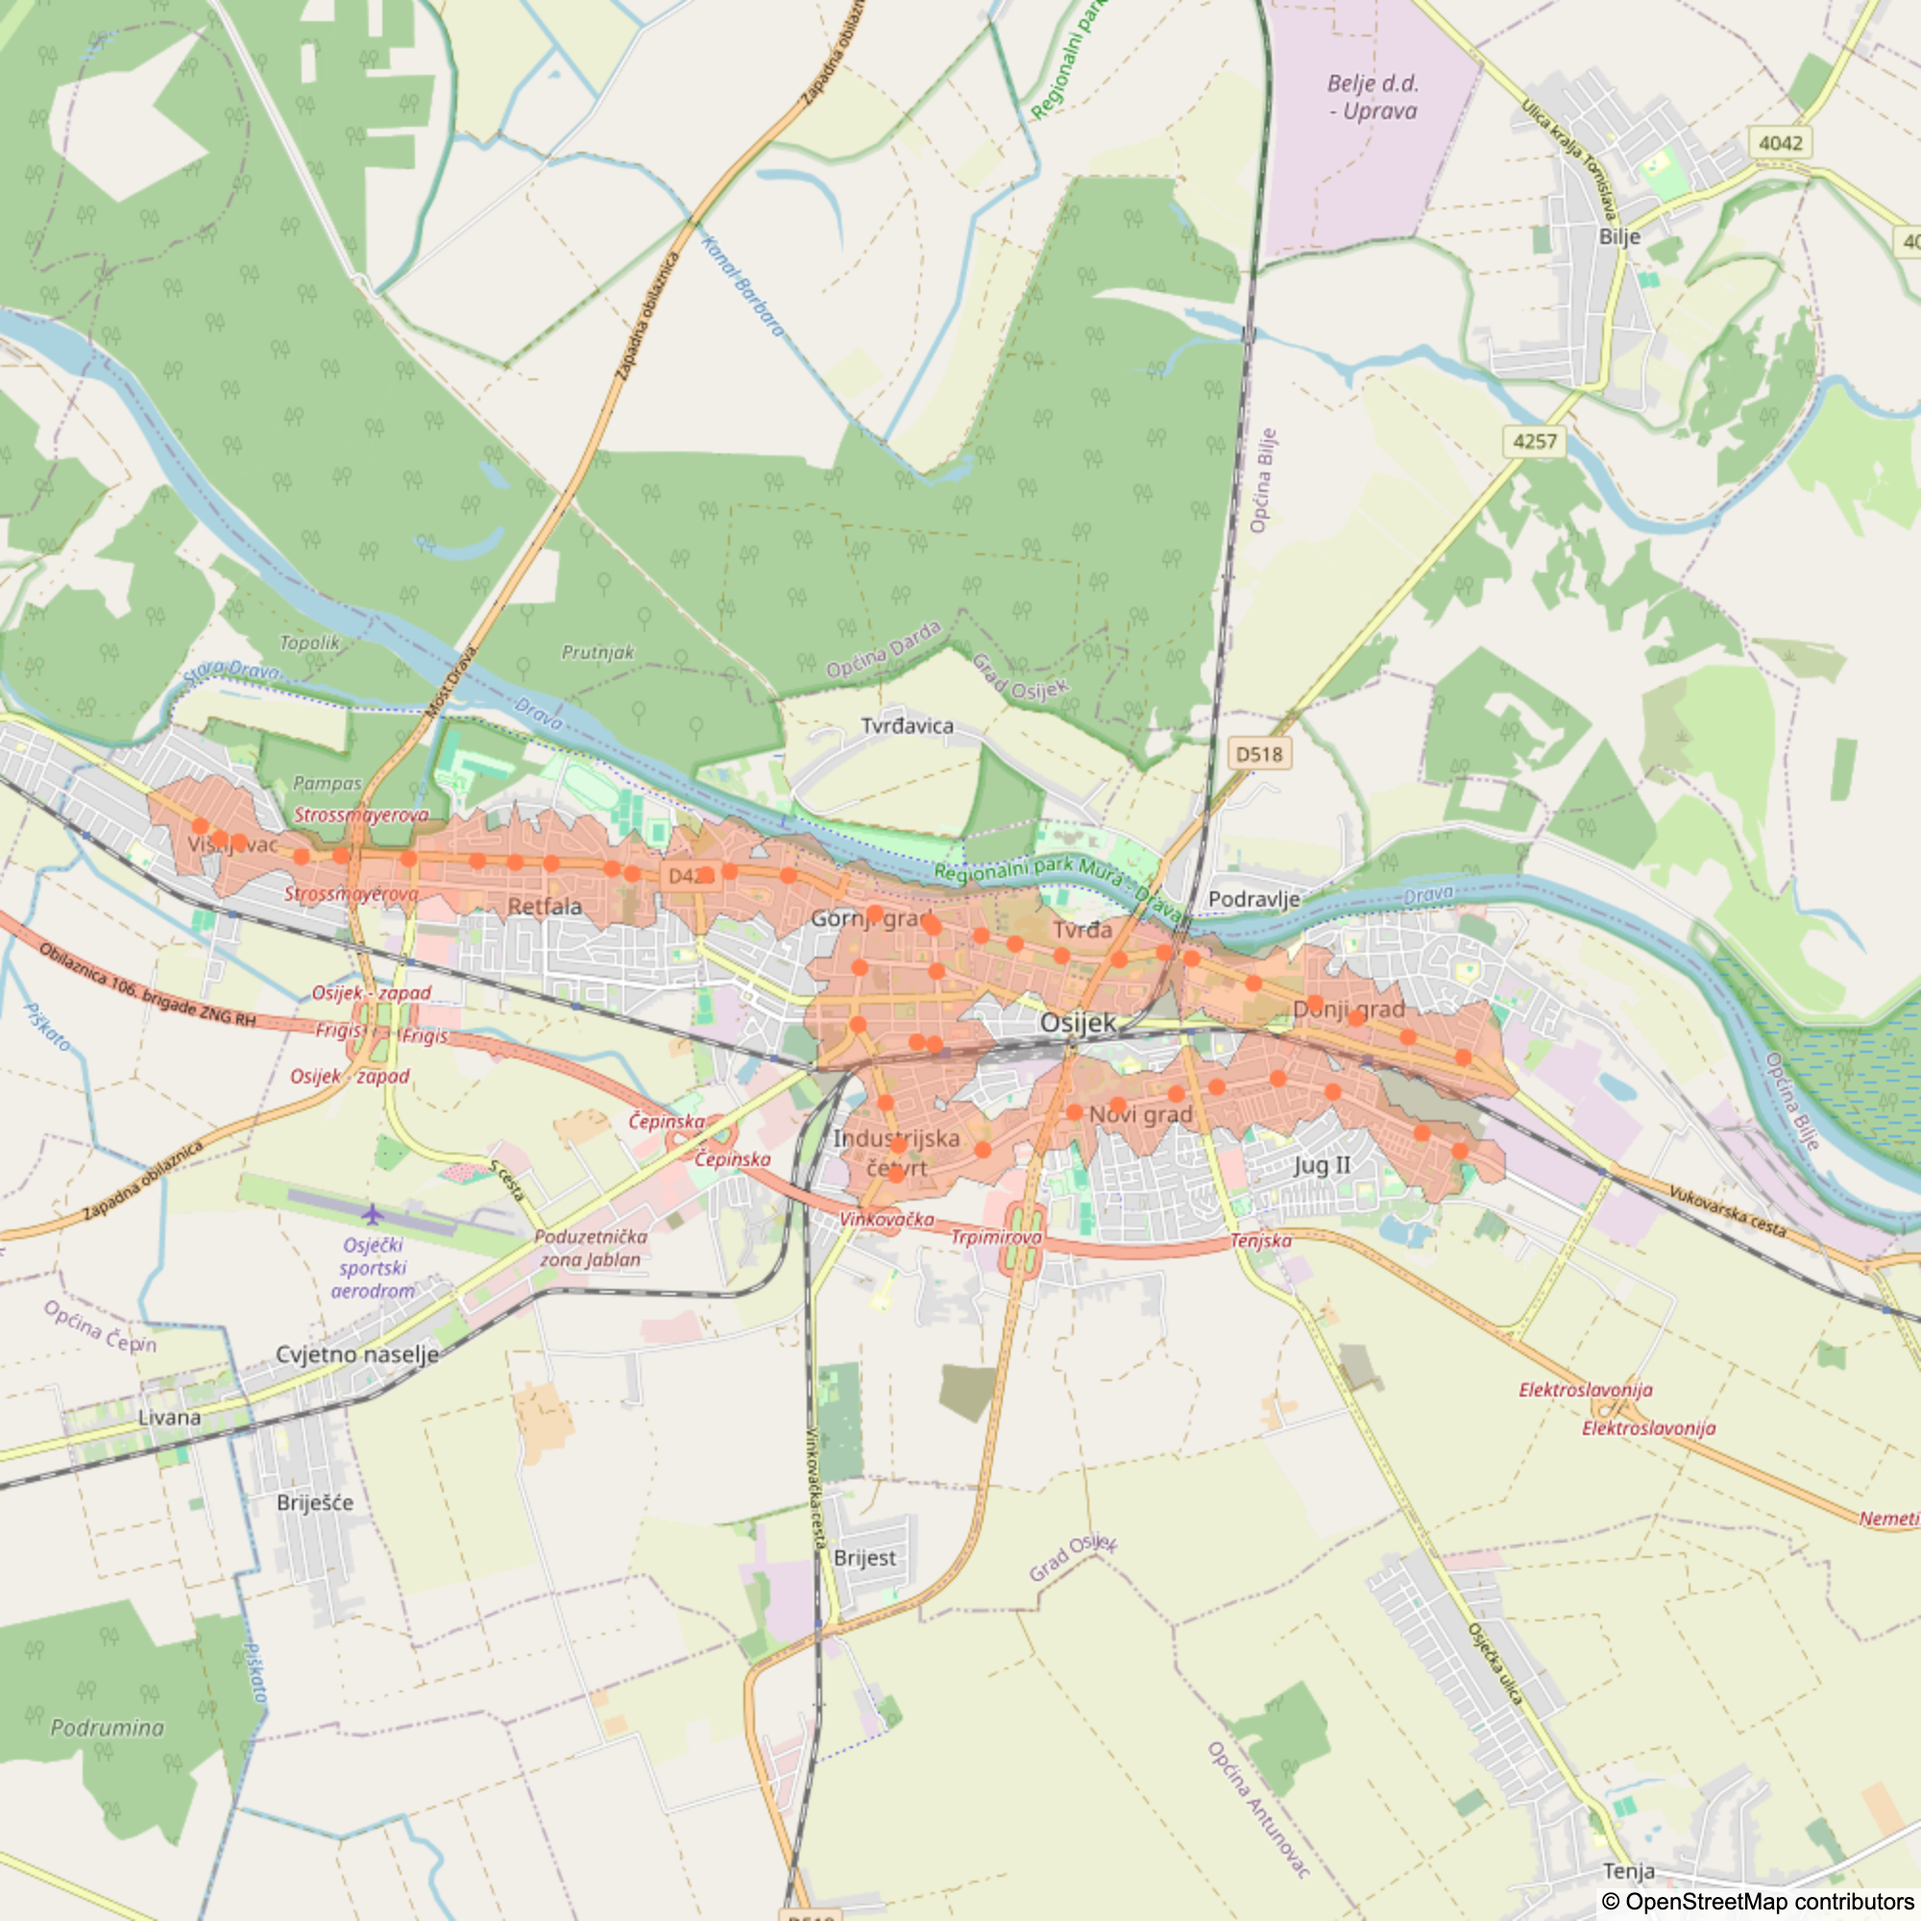
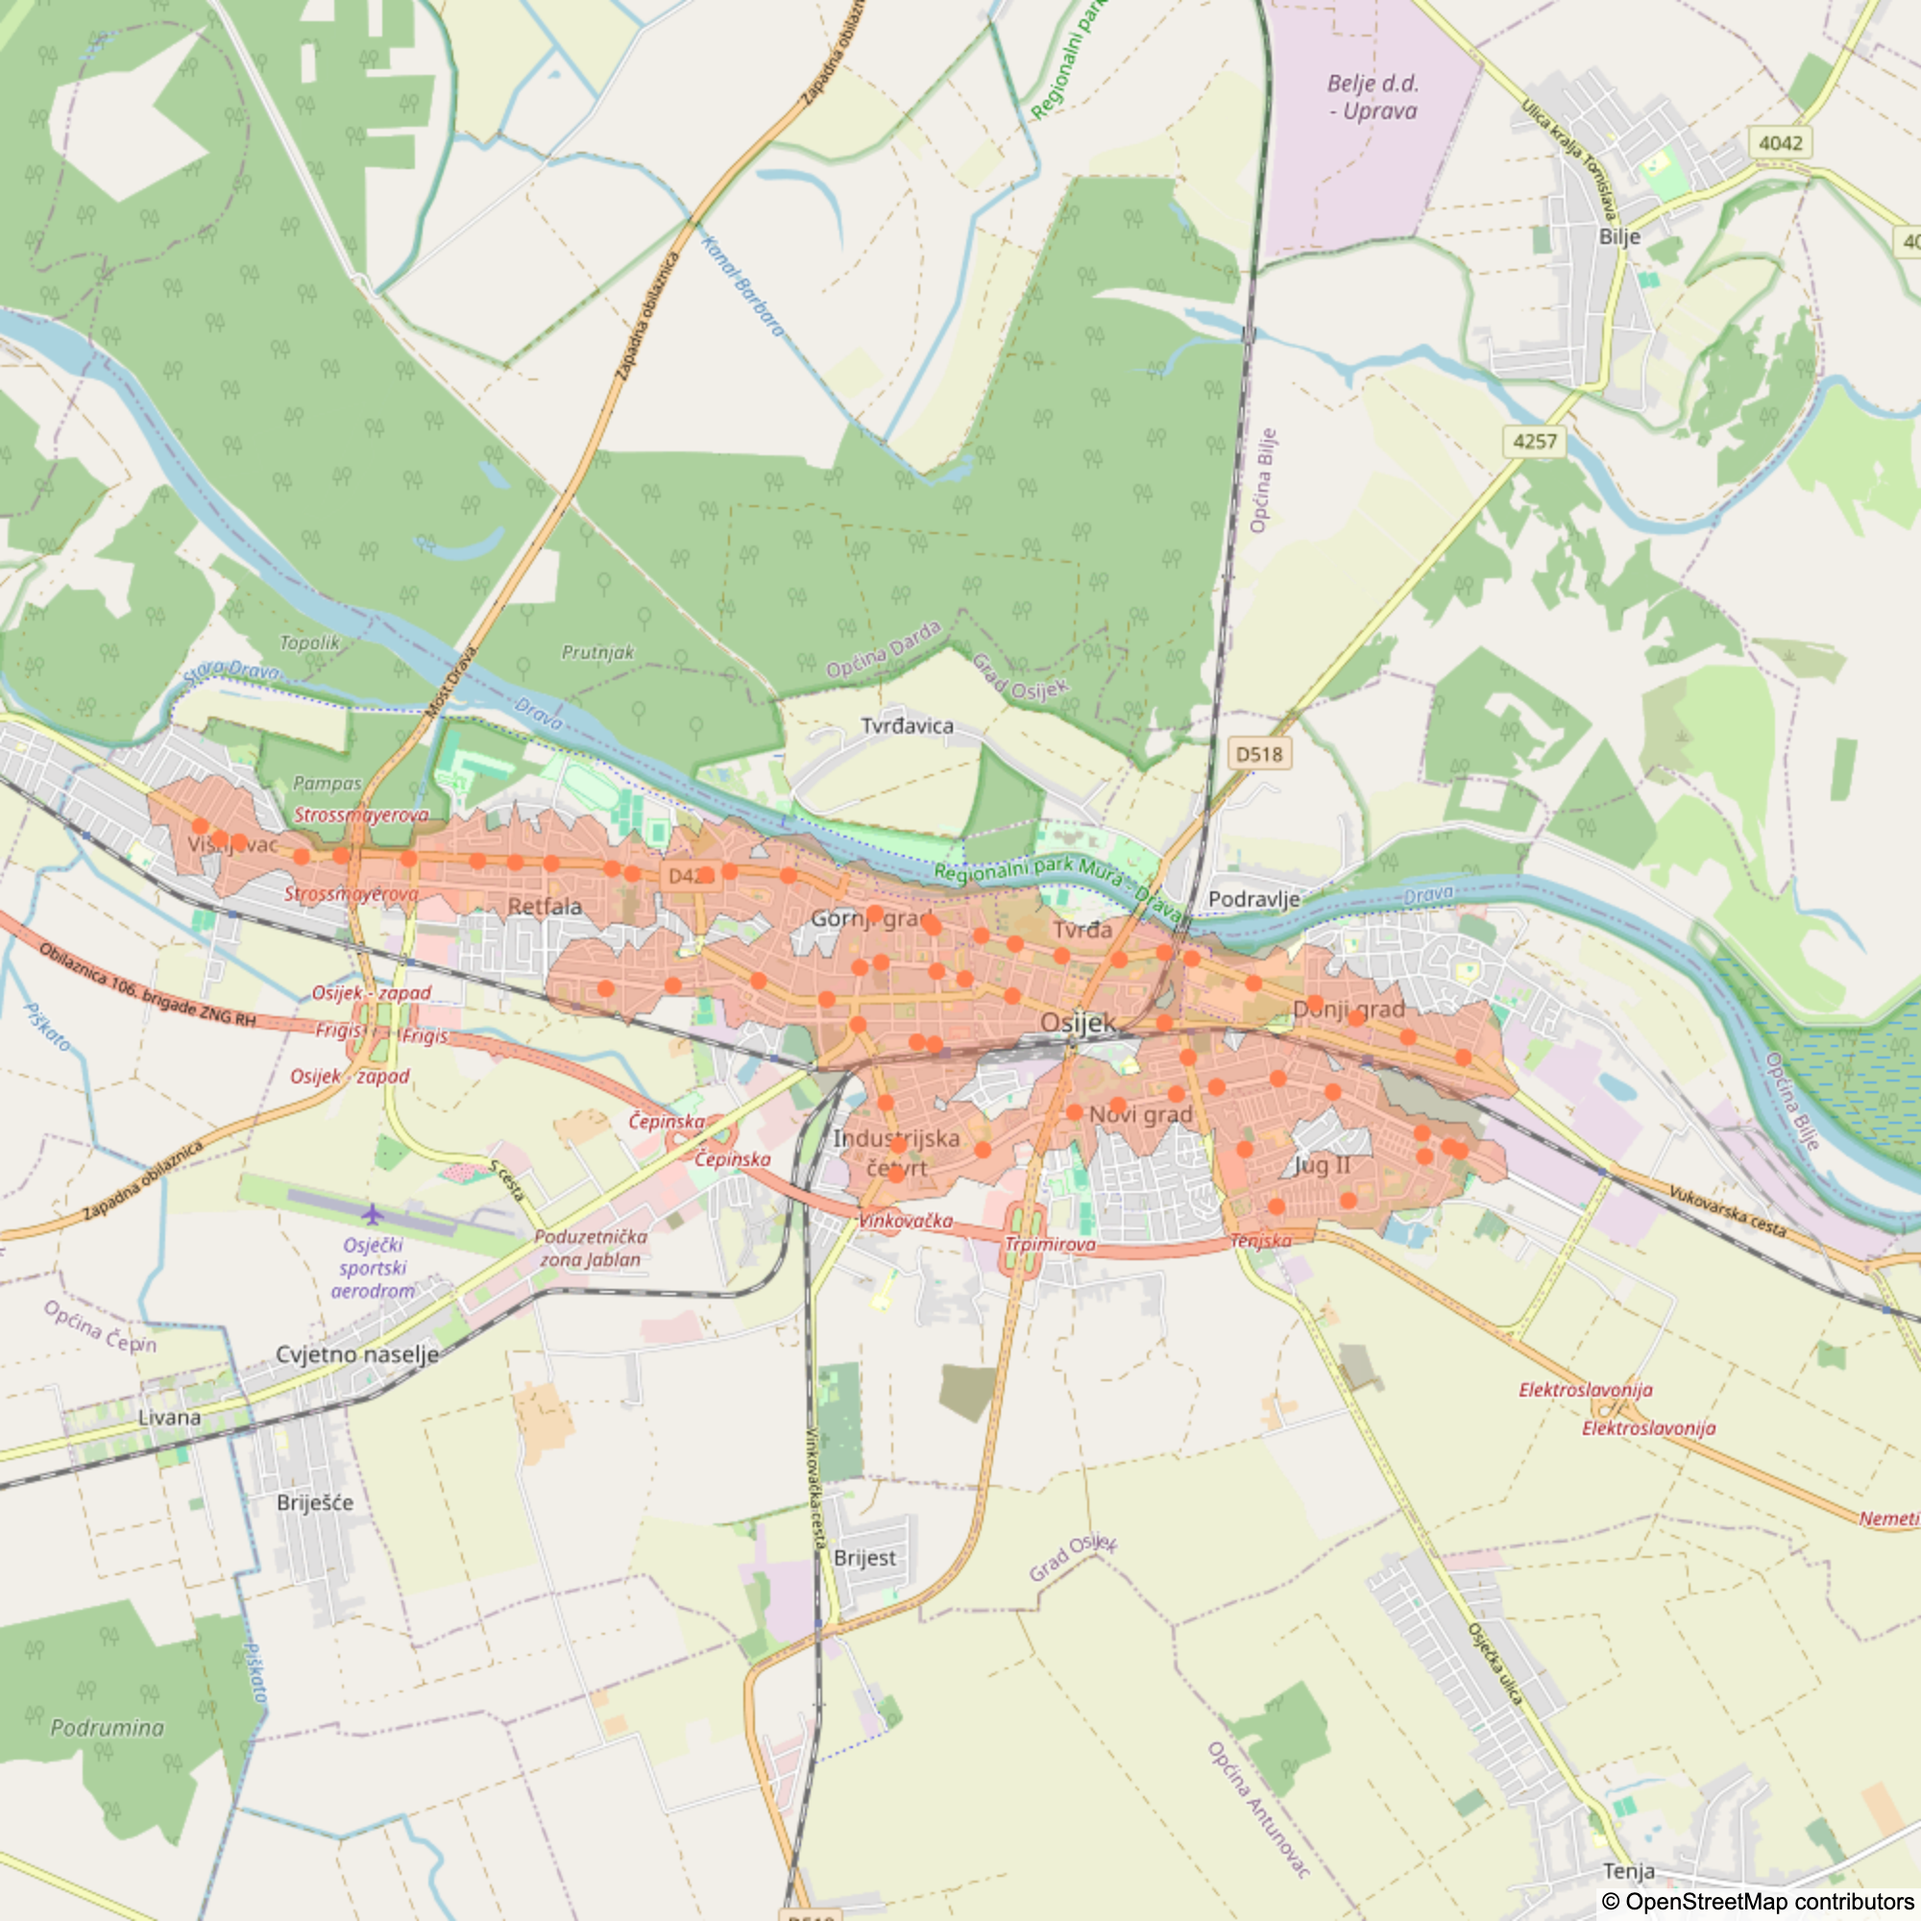
Added bus line 1

diff --git a/README.md b/README.md
@@ -204,7 +204,8 @@ For the sake of simplicity, very few locations from the total list of possible l
 
 - [x] Create initial functionalities
 - [x] Share analysis
-- [] Add more data 
+- [] Add more data for Osijek
+- [] Restructure coordinates in a way that each coordinate has id
 
 <p align="right">(<a href="#readme-top">back to top</a>)</p>
 
